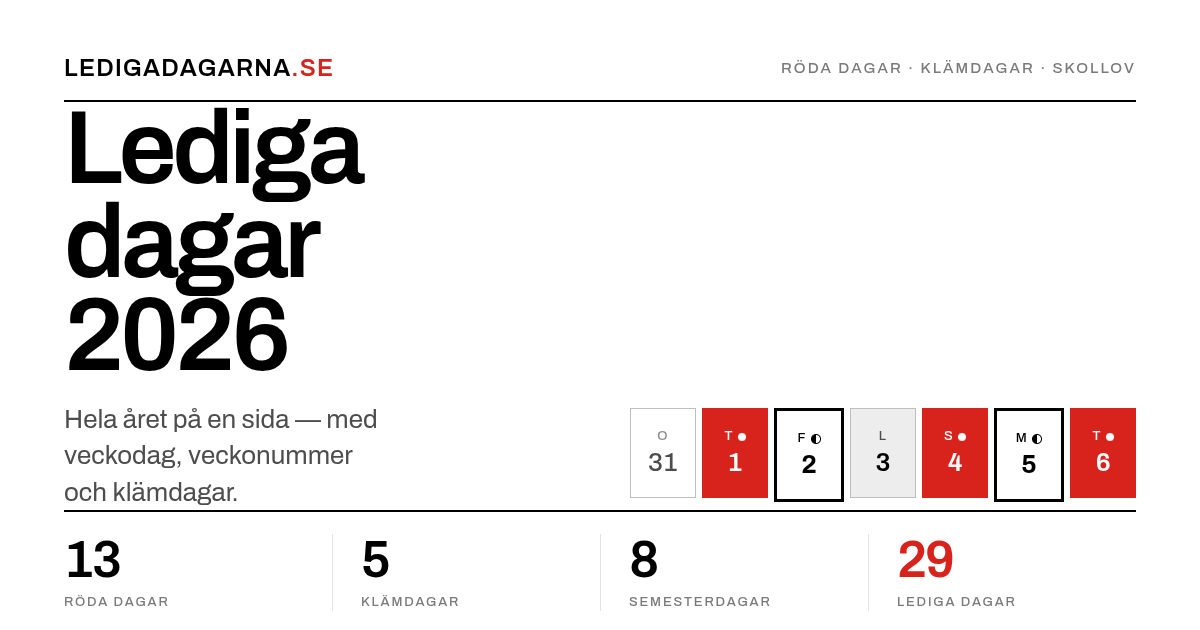
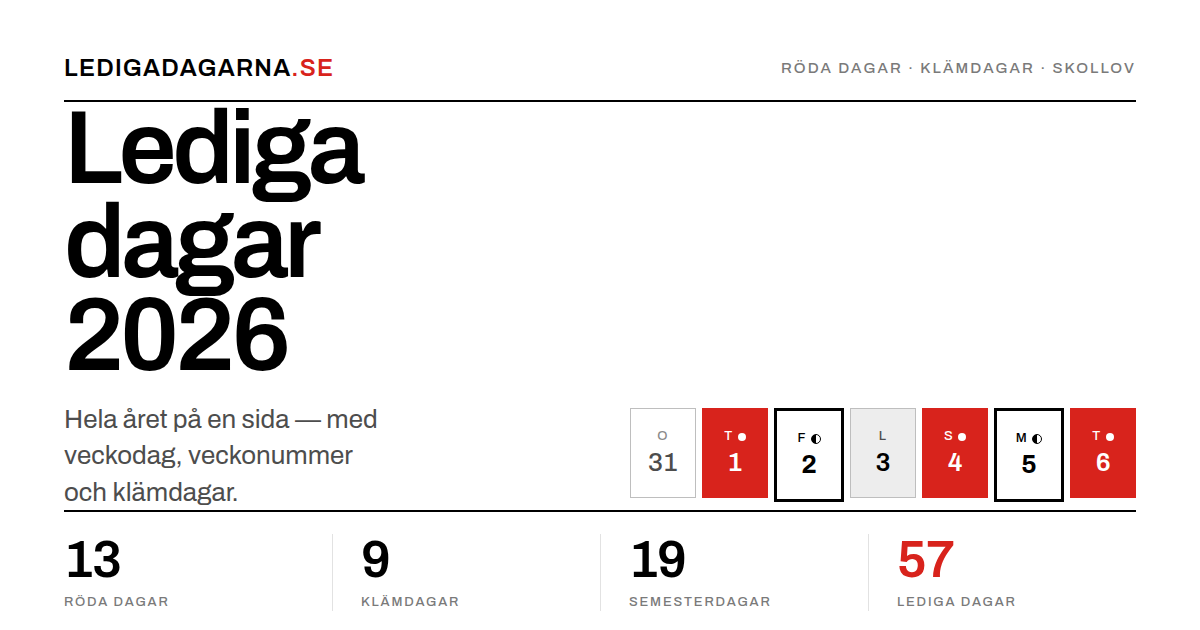
chore: og.png with live 2026 numbers (9 klämdagar, 19 semesterdagar, 57 lediga); add card source + regen notes (#5)

diff --git a/tools/og/card.html b/tools/og/card.html
@@ -1,0 +1,44 @@
+<!doctype html><html><head><meta charset='utf-8'>
+
+<link rel="preconnect" href="https://fonts.googleapis.com">
+<link rel="preconnect" href="https://fonts.gstatic.com" crossorigin>
+<link href="https://fonts.googleapis.com/css2?family=Archivo:wght@400;500;600;700&display=swap" rel="stylesheet">
+<style>
+  body { margin: 0; background: #D9D9D9; }
+  a { color: #D8231C; text-decoration: none; }
+  a:hover { color: #A81611; }
+</style>
+
+
+</head><body style='margin:0'><div id="og" style="width:1200px;height:630px;background:#FFFFFF;color:#000;font-family:'Archivo',system-ui,sans-serif;font-variant-numeric:tabular-nums;display:flex;flex-direction:column;justify-content:space-between;padding:56px 64px;box-sizing:border-box">
+
+  <div style="display:flex;align-items:center;justify-content:space-between;border-bottom:2px solid #000;padding-bottom:20px">
+    <div style="font-family:'Archivo',system-ui,sans-serif;font-weight:600;font-size:24px;line-height:1;letter-spacing:.05em;text-transform:uppercase">Ledigadagarna<span style="color:#D8231C">.se</span></div>
+    <div style="font-family:'Archivo',system-ui,sans-serif;font-weight:500;font-size:15px;line-height:1;letter-spacing:.14em;text-transform:uppercase;color:#7A7A7A">Röda dagar · Klämdagar · Skollov</div>
+  </div>
+
+  <div style="display:flex;align-items:flex-end;gap:48px">
+    <div style="display:flex;flex-direction:column;gap:18px;flex:1">
+      <h1 style="margin:0;font-family:'Archivo',system-ui,sans-serif;font-weight:600;font-size:104px;line-height:.9;letter-spacing:-.045em">Lediga dagar<br>2026</h1>
+      <div style="font-family:'Archivo',system-ui,sans-serif;font-weight:400;font-size:26px;line-height:1.4;color:#4D4D4D;max-width:22ch">Hela året på en sida — med veckodag, veckonummer och klämdagar.</div>
+    </div>
+    <div style="display:flex;gap:6px;padding-bottom:8px">
+      <div style="width:64px;height:88px;border:1px solid #BEBEBE;background:#FFFFFF;display:flex;flex-direction:column;align-items:center;justify-content:center;gap:6px"><span style="font-family:'Archivo',system-ui,sans-serif;font-weight:500;font-size:13px;line-height:1;letter-spacing:.1em;color:#8A8A8A">O</span><span style="font-family:'Archivo',system-ui,sans-serif;font-weight:500;font-size:26px;line-height:1;color:#4D4D4D">31</span></div>
+      <div style="width:64px;height:88px;border:1px solid #D8231C;background:#D8231C;display:flex;flex-direction:column;align-items:center;justify-content:center;gap:6px"><span style="font-family:'Archivo',system-ui,sans-serif;font-weight:500;font-size:13px;line-height:1;letter-spacing:.1em;color:#fff;display:flex;align-items:center;gap:4px">T <span style="display:inline-block;width:8px;height:8px;border-radius:50%;background:#fff"></span></span><span style="font-family:'Archivo',system-ui,sans-serif;font-weight:600;font-size:26px;line-height:1;color:#fff">1</span></div>
+      <div style="width:64px;height:88px;border:3px solid #000;background:#FFFFFF;display:flex;flex-direction:column;align-items:center;justify-content:center;gap:6px"><span style="font-family:'Archivo',system-ui,sans-serif;font-weight:500;font-size:13px;line-height:1;letter-spacing:.1em;color:#000;display:flex;align-items:center;gap:4px">F <span style="display:inline-block;width:8px;height:8px;border:1px solid #000;border-radius:50%;background:linear-gradient(90deg,#000 50%,#fff 50%)"></span></span><span style="font-family:'Archivo',system-ui,sans-serif;font-weight:700;font-size:26px;line-height:1;color:#000">2</span></div>
+      <div style="width:64px;height:88px;border:1px solid #BEBEBE;background:#EDEDED;display:flex;flex-direction:column;align-items:center;justify-content:center;gap:6px"><span style="font-family:'Archivo',system-ui,sans-serif;font-weight:500;font-size:13px;line-height:1;letter-spacing:.1em;color:#4D4D4D">L</span><span style="font-family:'Archivo',system-ui,sans-serif;font-weight:600;font-size:26px;line-height:1;color:#000">3</span></div>
+      <div style="width:64px;height:88px;border:1px solid #D8231C;background:#D8231C;display:flex;flex-direction:column;align-items:center;justify-content:center;gap:6px"><span style="font-family:'Archivo',system-ui,sans-serif;font-weight:500;font-size:13px;line-height:1;letter-spacing:.1em;color:#fff;display:flex;align-items:center;gap:4px">S <span style="display:inline-block;width:8px;height:8px;border-radius:50%;background:#fff"></span></span><span style="font-family:'Archivo',system-ui,sans-serif;font-weight:600;font-size:26px;line-height:1;color:#fff">4</span></div>
+      <div style="width:64px;height:88px;border:3px solid #000;background:#FFFFFF;display:flex;flex-direction:column;align-items:center;justify-content:center;gap:6px"><span style="font-family:'Archivo',system-ui,sans-serif;font-weight:500;font-size:13px;line-height:1;letter-spacing:.1em;color:#000;display:flex;align-items:center;gap:4px">M <span style="display:inline-block;width:8px;height:8px;border:1px solid #000;border-radius:50%;background:linear-gradient(90deg,#000 50%,#fff 50%)"></span></span><span style="font-family:'Archivo',system-ui,sans-serif;font-weight:700;font-size:26px;line-height:1;color:#000">5</span></div>
+      <div style="width:64px;height:88px;border:1px solid #D8231C;background:#D8231C;display:flex;flex-direction:column;align-items:center;justify-content:center;gap:6px"><span style="font-family:'Archivo',system-ui,sans-serif;font-weight:500;font-size:13px;line-height:1;letter-spacing:.1em;color:#fff;display:flex;align-items:center;gap:4px">T <span style="display:inline-block;width:8px;height:8px;border-radius:50%;background:#fff"></span></span><span style="font-family:'Archivo',system-ui,sans-serif;font-weight:600;font-size:26px;line-height:1;color:#fff">6</span></div>
+    </div>
+  </div>
+
+  <div style="display:grid;grid-template-columns:repeat(4,1fr);border-top:2px solid #000;padding-top:22px">
+    <div style="display:flex;flex-direction:column;gap:8px"><div style="font-family:'Archivo',system-ui,sans-serif;font-weight:600;font-size:52px;line-height:1;letter-spacing:-.04em">13</div><div style="font-family:'Archivo',system-ui,sans-serif;font-weight:500;font-size:13px;line-height:1.3;letter-spacing:.14em;text-transform:uppercase;color:#7A7A7A">Röda dagar</div></div>
+    <div style="display:flex;flex-direction:column;gap:8px;border-left:1px solid #E2E2E2;padding-left:28px"><div style="font-family:'Archivo',system-ui,sans-serif;font-weight:600;font-size:52px;line-height:1;letter-spacing:-.04em">9</div><div style="font-family:'Archivo',system-ui,sans-serif;font-weight:500;font-size:13px;line-height:1.3;letter-spacing:.14em;text-transform:uppercase;color:#7A7A7A">Klämdagar</div></div>
+    <div style="display:flex;flex-direction:column;gap:8px;border-left:1px solid #E2E2E2;padding-left:28px"><div style="font-family:'Archivo',system-ui,sans-serif;font-weight:600;font-size:52px;line-height:1;letter-spacing:-.04em">19</div><div style="font-family:'Archivo',system-ui,sans-serif;font-weight:500;font-size:13px;line-height:1.3;letter-spacing:.14em;text-transform:uppercase;color:#7A7A7A">Semesterdagar</div></div>
+    <div style="display:flex;flex-direction:column;gap:8px;border-left:1px solid #E2E2E2;padding-left:28px"><div style="font-family:'Archivo',system-ui,sans-serif;font-weight:600;font-size:52px;line-height:1;letter-spacing:-.04em;color:#D8231C">57</div><div style="font-family:'Archivo',system-ui,sans-serif;font-weight:500;font-size:13px;line-height:1.3;letter-spacing:.14em;text-transform:uppercase;color:#7A7A7A">Lediga dagar</div></div>
+  </div>
+
+</div>
+</body></html>

diff --git a/tools/og/README.md b/tools/og/README.md
@@ -1,0 +1,9 @@
+# Social card source
+
+`card.html` renders the 1200×630 og.png. Regenerate (new year or new stats):
+
+1. Update the year, the stat numbers (from `python3 tools/holidays.py <year>`:
+   bridges / sum take / sum days) and the January tile strip in card.html.
+2. `google-chrome --headless=new --hide-scrollbars --window-size=1200,800 --screenshot=tall.png card.html`
+   (800 tall: the shot at exactly 630 can fire before the Archivo webfont loads)
+3. Crop to 1200×630 and save as `site/assets/og.png`.
